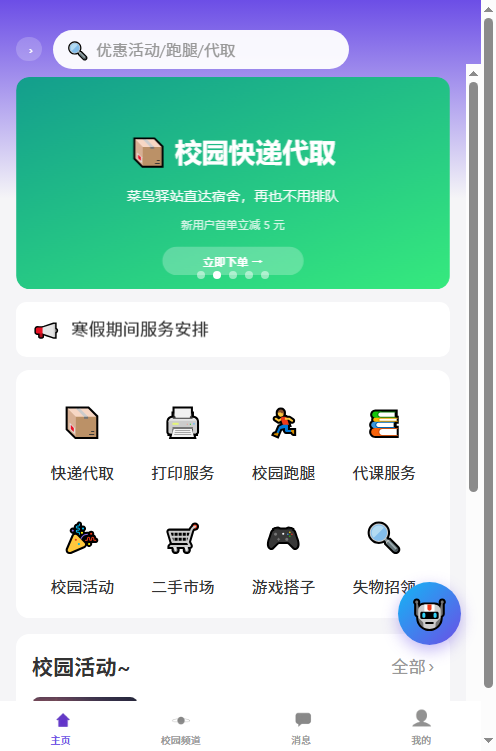
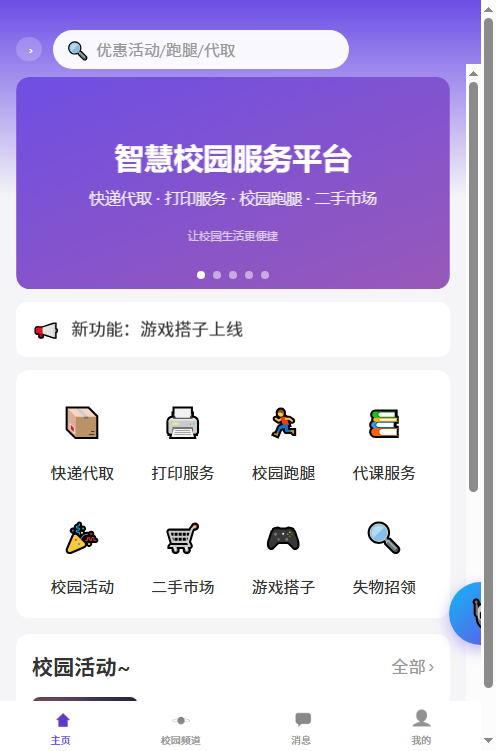
feat: AI 悬浮球默认半隐藏（一半露出屏幕），点击滑出后进入 AI 助手

Changed region(s): [[0.0302, 0.0919, 0.9073, 0.3981], [0.7863, 0.7656, 0.9677, 0.8881], [0.1512, 0.4288, 0.4839, 0.4594]]

diff --git a/frontend/src/pages/index/index.vue b/frontend/src/pages/index/index.vue
@@ -104,7 +104,7 @@
       <view style="height: 40rpx;"></view>
     </scroll-view>
       <!-- AI 助手悬浮球 -->
-    <view class="ai-fab" @click="goAiChat">
+    <view class="ai-fab" :class="{ 'is-expanded': aiFabExpanded }" @click="onAiFabClick">
       <text class="ai-fab-icon">🤖</text>
     </view>
   </view>
@@ -288,8 +288,17 @@ function loadMore() {
   // 这里可以加载更多活动
   console.log('加载更多')
 }
-function goAiChat() {
-  uni.navigateTo({ url: '/pages/ai/chat' })
+let aiFabExpanded = false
+function onAiFabClick() {
+  // 第一次点击：滑出悬浮球；已展开则直接进入
+  if (!aiFabExpanded) {
+    aiFabExpanded = true
+    // 模板里用的响应式状态在 setup 中需要 ref—— uni-app vue3 setup 中直接改普通变量不触发视图
+    // 因此用 class 切换通过 DOM 操作兜底（或声明 ref）。此处简单起见：展开后 600ms 跳转
+    setTimeout(() => { uni.navigateTo({ url: '/pages/ai/chat' }) }, 600)
+  } else {
+    uni.navigateTo({ url: '/pages/ai/chat' })
+  }
 }
 </script>
 
@@ -543,10 +552,10 @@ function goAiChat() {
   flex-shrink: 0;
 }
 
-/* AI 助手悬浮球 */
+/* AI 助手悬浮球：默认半隐藏（一半露出屏幕），点击滑出后进入 */
 .ai-fab {
   position: fixed;
-  right: 30rpx;
+  right: -48rpx;
   bottom: 160rpx;
   width: 96rpx;
   height: 96rpx;
@@ -557,8 +566,20 @@ function goAiChat() {
   justify-content: center;
   box-shadow: 0 8rpx 24rpx rgba(108, 78, 230, 0.4);
   z-index: 999;
+  transition: right 0.3s ease;
 }
+
+.ai-fab.is-expanded {
+  right: 30rpx;
+}
+
 .ai-fab .ai-fab-icon {
   font-size: 44rpx;
+  margin-left: 24rpx;
+  transition: margin-left 0.3s ease;
+}
+
+.ai-fab.is-expanded .ai-fab-icon {
+  margin-left: 0;
 }
 </style>

diff --git a/frontend/src/pages/message/message.vue b/frontend/src/pages/message/message.vue
@@ -92,7 +92,7 @@
       <view class="bottom-space"></view>
     </scroll-view>
       <!-- AI 助手悬浮球 -->
-    <view class="ai-fab" @click="goAiChat">
+    <view class="ai-fab" :class="{ 'is-expanded': aiFabExpanded }" @click="onAiFabClick">
       <text class="ai-fab-icon">🤖</text>
     </view>
   </view>
@@ -271,8 +271,17 @@ function onRefresh() {
     isRefreshing.value = false
   })
 }
-function goAiChat() {
-  uni.navigateTo({ url: '/pages/ai/chat' })
+let aiFabExpanded = false
+function onAiFabClick() {
+  // 第一次点击：滑出悬浮球；已展开则直接进入
+  if (!aiFabExpanded) {
+    aiFabExpanded = true
+    // 模板里用的响应式状态在 setup 中需要 ref—— uni-app vue3 setup 中直接改普通变量不触发视图
+    // 因此用 class 切换通过 DOM 操作兜底（或声明 ref）。此处简单起见：展开后 600ms 跳转
+    setTimeout(() => { uni.navigateTo({ url: '/pages/ai/chat' }) }, 600)
+  } else {
+    uni.navigateTo({ url: '/pages/ai/chat' })
+  }
 }
 </script>
 
@@ -529,10 +538,10 @@ function goAiChat() {
   height: 180rpx;
 }
 
-/* AI 助手悬浮球 */
+/* AI 助手悬浮球：默认半隐藏（一半露出屏幕），点击滑出后进入 */
 .ai-fab {
   position: fixed;
-  right: 30rpx;
+  right: -48rpx;
   bottom: 160rpx;
   width: 96rpx;
   height: 96rpx;
@@ -543,8 +552,20 @@ function goAiChat() {
   justify-content: center;
   box-shadow: 0 8rpx 24rpx rgba(108, 78, 230, 0.4);
   z-index: 999;
+  transition: right 0.3s ease;
 }
+
+.ai-fab.is-expanded {
+  right: 30rpx;
+}
+
 .ai-fab .ai-fab-icon {
   font-size: 44rpx;
+  margin-left: 24rpx;
+  transition: margin-left 0.3s ease;
+}
+
+.ai-fab.is-expanded .ai-fab-icon {
+  margin-left: 0;
 }
 </style>

diff --git a/frontend/src/pages/channel/channel.vue b/frontend/src/pages/channel/channel.vue
@@ -121,7 +121,7 @@
       </view>
     </view>
       <!-- AI 助手悬浮球 -->
-    <view class="ai-fab" @click="goAiChat">
+    <view class="ai-fab" :class="{ 'is-expanded': aiFabExpanded }" @click="onAiFabClick">
       <text class="ai-fab-icon">🤖</text>
     </view>
   </view>
@@ -401,8 +401,17 @@ async function onRefresh() {
     isRefreshing.value = false
   }
 }
-function goAiChat() {
-  uni.navigateTo({ url: '/pages/ai/chat' })
+let aiFabExpanded = false
+function onAiFabClick() {
+  // 第一次点击：滑出悬浮球；已展开则直接进入
+  if (!aiFabExpanded) {
+    aiFabExpanded = true
+    // 模板里用的响应式状态在 setup 中需要 ref—— uni-app vue3 setup 中直接改普通变量不触发视图
+    // 因此用 class 切换通过 DOM 操作兜底（或声明 ref）。此处简单起见：展开后 600ms 跳转
+    setTimeout(() => { uni.navigateTo({ url: '/pages/ai/chat' }) }, 600)
+  } else {
+    uni.navigateTo({ url: '/pages/ai/chat' })
+  }
 }
 </script>
 
@@ -745,10 +754,10 @@ function goAiChat() {
   }
 }
 
-/* AI 助手悬浮球 */
+/* AI 助手悬浮球：默认半隐藏（一半露出屏幕），点击滑出后进入 */
 .ai-fab {
   position: fixed;
-  right: 30rpx;
+  right: -48rpx;
   bottom: 160rpx;
   width: 96rpx;
   height: 96rpx;
@@ -759,8 +768,20 @@ function goAiChat() {
   justify-content: center;
   box-shadow: 0 8rpx 24rpx rgba(108, 78, 230, 0.4);
   z-index: 999;
+  transition: right 0.3s ease;
 }
+
+.ai-fab.is-expanded {
+  right: 30rpx;
+}
+
 .ai-fab .ai-fab-icon {
   font-size: 44rpx;
+  margin-left: 24rpx;
+  transition: margin-left 0.3s ease;
+}
+
+.ai-fab.is-expanded .ai-fab-icon {
+  margin-left: 0;
 }
 </style>
